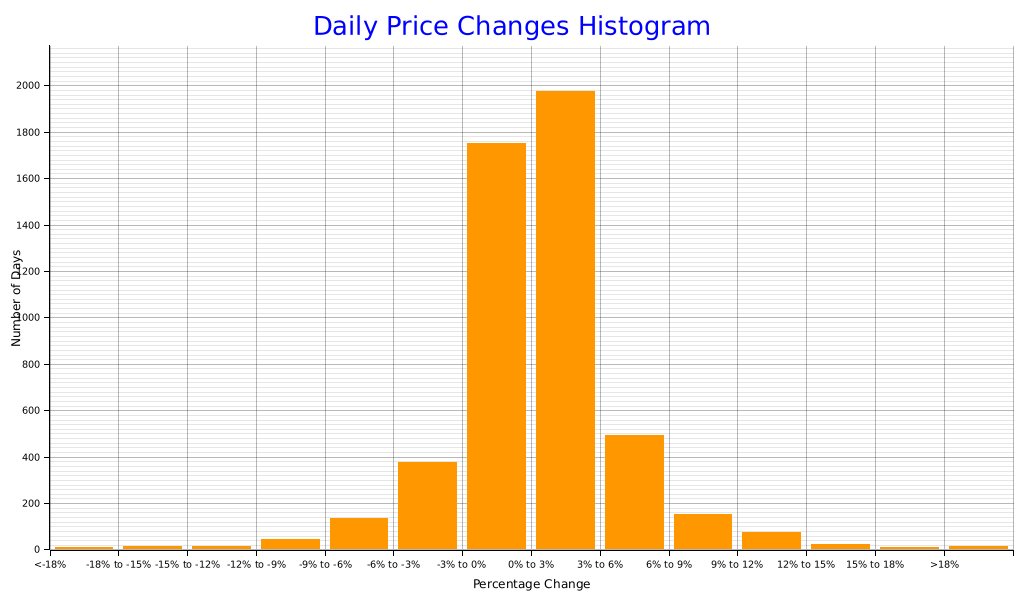
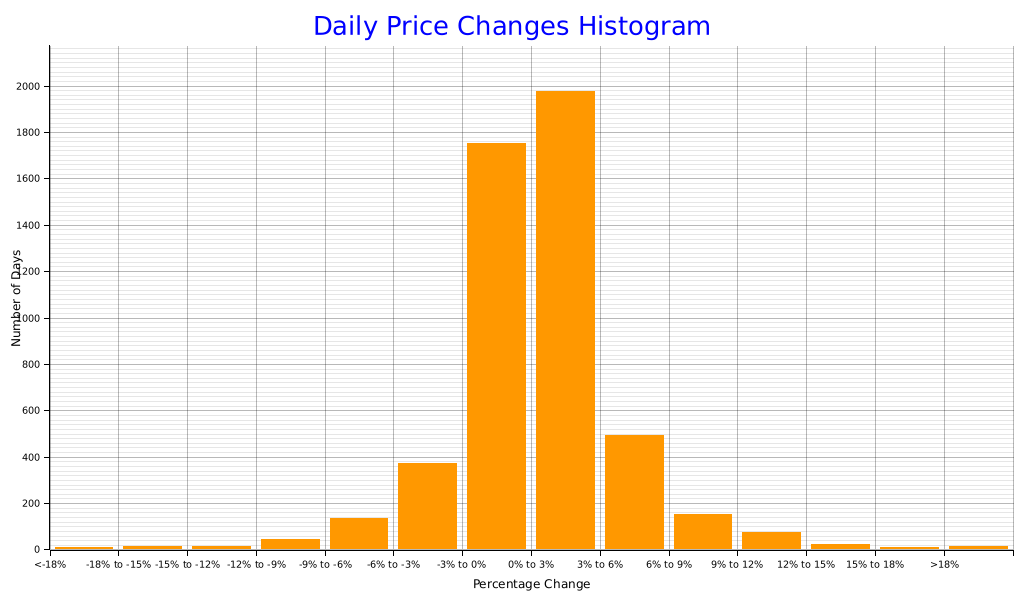
deploy: fbebbab4ab64577eb9c05b16167055638fc15f9a

diff --git a/index.html b/index.html
@@ -34,7 +34,7 @@
           <td>126,198.07</td>
           <td>74,436.67</td>
           <td></td>
-          <td>15,801,359,794,176.0</td>
+          <td>15,801,198,313,472.0</td>
         </tr>
         <tr>
           <td class='yearly-summary-year'>2024</td>
@@ -186,11 +186,11 @@
         </tr>
         <tr>
           <td>-3% to 0%</td>
-          <td>1752</td>
+          <td>1751</td>
         </tr>
         <tr>
           <td>0% to 3%</td>
-          <td>1974</td>
+          <td>1975</td>
         </tr>
         <tr>
           <td>3% to 6%</td>
@@ -227,7 +227,7 @@
     <br><br>
     <a href='https://github.com/bitcoin-tools/btracker'>Link to the report codebase</a>
     <br><br>
-    This report was last updated at 2025-11-02 16:56:52.931510088 UTC.
+    This report was last updated at 2025-11-02 17:19:02.599893786 UTC.
     <br><br>
     <div class='scrollable-table'>
       <table>
@@ -251,12 +251,12 @@
             <td>110,048.06</td>
             <td>111,133.66</td>
             <td>109,824.12</td>
-            <td>110,042.71</td>
-            <td class='wma-column'>54,677.26</td>
-            <td>44.78 (0.08 %)</td>
-            <td>62,697.49 (132.4 %)</td>
+            <td>110,188.62</td>
+            <td class='wma-column'>54,677.37</td>
+            <td>44.89 (0.08 %)</td>
+            <td>62,843.40 (132.7 %)</td>
             <td>1,309.53 (1.1 %)</td>
-            <td>-21.30 (0.0 %)</td>
+            <td>124.60 (0.1 %)</td>
           </tr>
           <tr>
             <td>2025-11-01</td>
